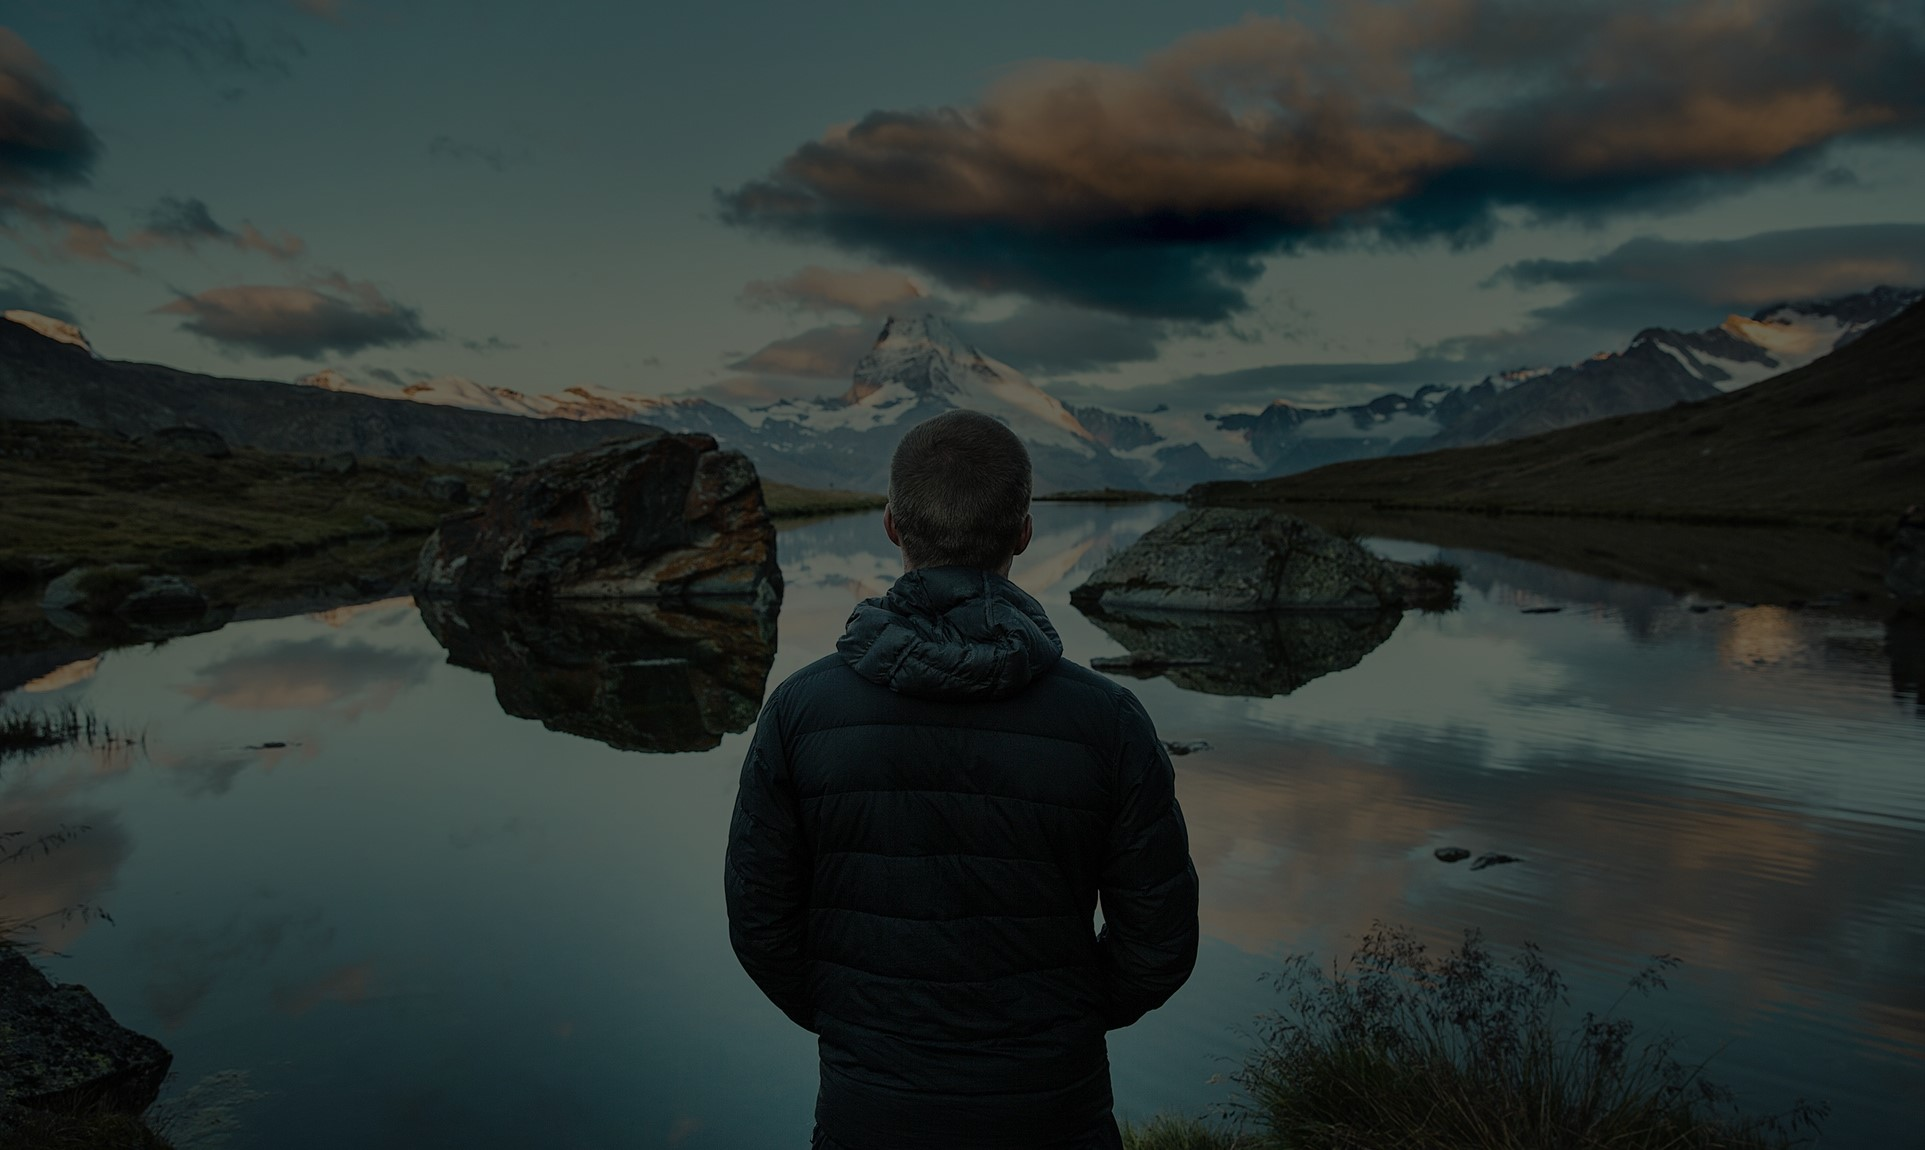
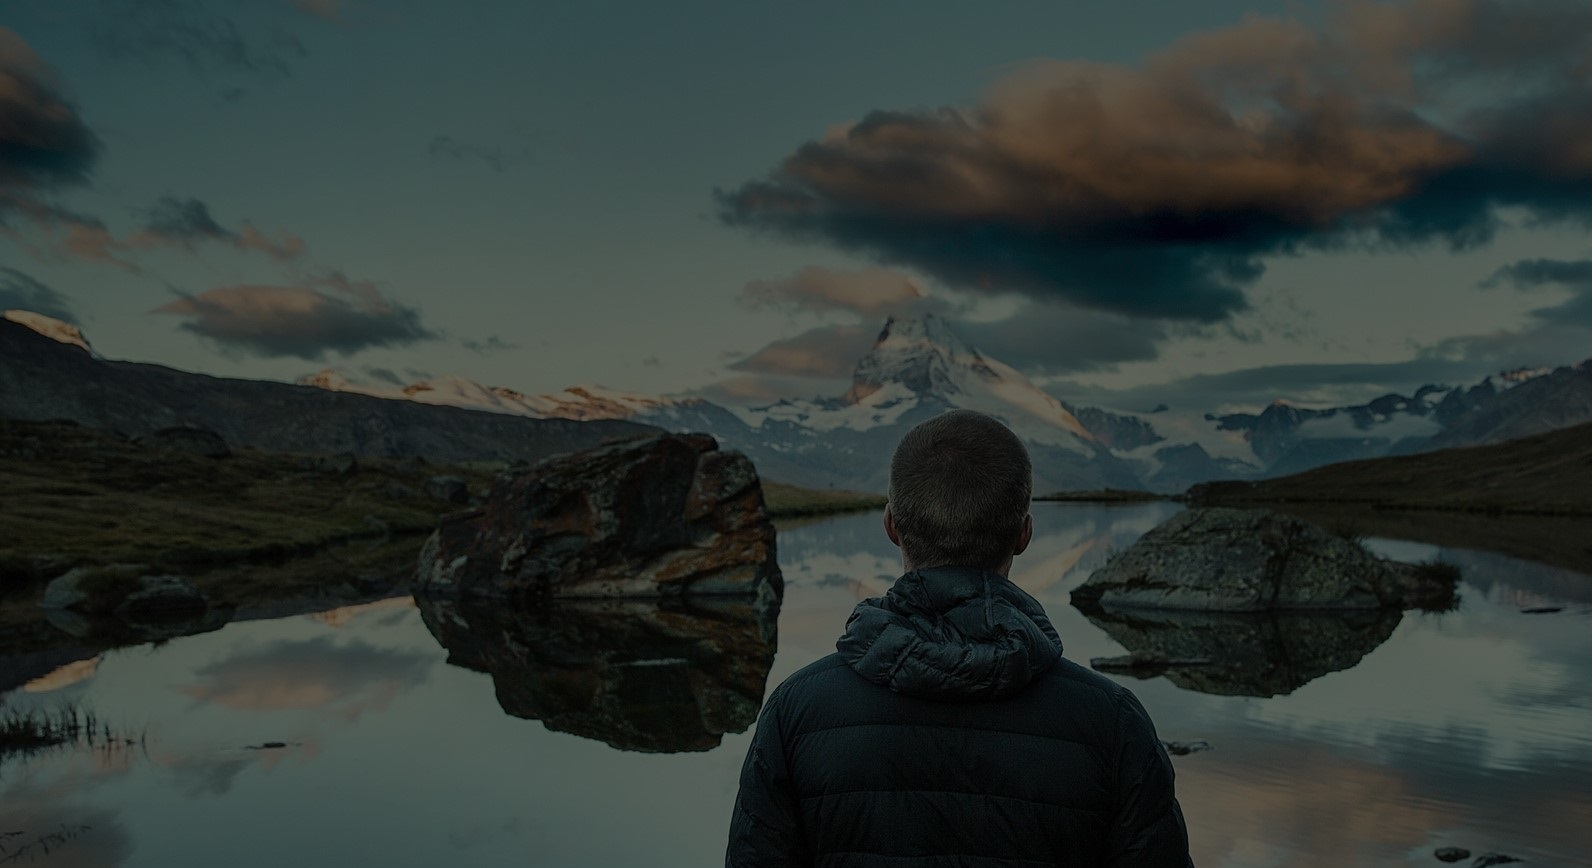
Imgane de fondo mas chica

diff --git a/styles/style.css b/styles/style.css
@@ -4,7 +4,7 @@ body{
 }
 
 header{
-    background-image: url(../img/Fondo.png);
+    background-image: url(../img/Fondo.jpg);
     background-attachment: fixed;
 }
 
